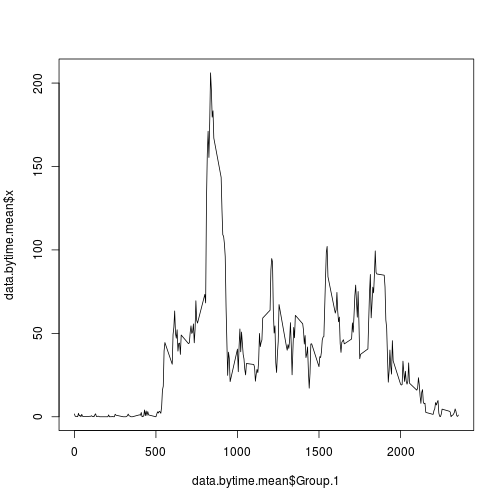
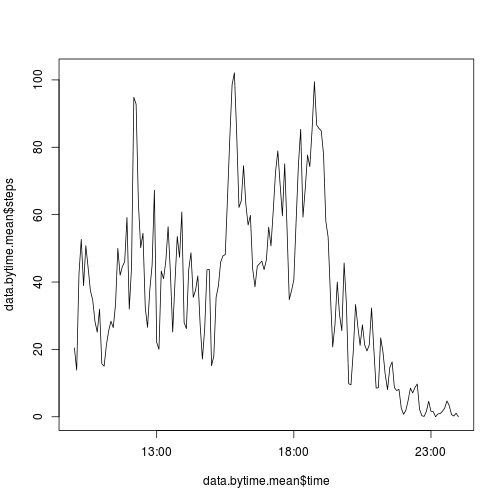
Start of inputing missing values

diff --git a/assessment1.html b/assessment1.html
@@ -203,16 +203,30 @@ hr {
 <body>
 <h2>Loading and preprocessing the data</h2>
 
-<p>Unzip and read activity data.</p>
+<p>Unzip and read activity data in one step.</p>
 
 <pre><code class="r">data &lt;- read.csv(unz(&quot;activity.zip&quot;, &quot;activity.csv&quot;))
 </code></pre>
 
-<p>Convert date column to a date and add a weekday value.</p>
+<p>Convert date and interval to a date.</p>
 
-<pre><code class="r">data$date &lt;- as.POSIXct(strptime(data$date, &#39;%Y-%m-%d&#39;))
-data$weekday &lt;- factor(weekdays(data$date, abbreviate = TRUE), levels  =
- c(&#39;Mon&#39;, &#39;Tue&#39;, &#39;Wed&#39;, &#39;Thu&#39;, &#39;Fri&#39;, &#39;Sat&#39;, &#39;Sun&#39;))
+<pre><code class="r">data$date &lt;- as.POSIXct(strptime(paste(data$date, data$interval), &#39;%Y-%m-%d %H%M&#39;))
+</code></pre>
+
+<p>Convert just the interval to a time.</p>
+
+<pre><code class="r">data$time &lt;- as.POSIXct(strptime(data$interval, &#39;%H%M&#39;))
+</code></pre>
+
+<p>Add weekday column with levels.</p>
+
+<pre><code class="r">data$weekday &lt;- factor(weekdays(data$date, abbreviate = TRUE),
+    levels = c(&#39;Mon&#39;, &#39;Tue&#39;, &#39;Wed&#39;, &#39;Thu&#39;, &#39;Fri&#39;, &#39;Sat&#39;, &#39;Sun&#39;))
+</code></pre>
+
+<p>Add a weekend column.</p>
+
+<pre><code class="r">data$weekend &lt;- factor(ifelse(data$weekday %in% c(&#39;Sat&#39;, &#39;Sun&#39;), &#39;weekend&#39;, &#39;weekday&#39;))
 </code></pre>
 
 <p>Aggregated the steps over days:</p>
@@ -227,10 +241,9 @@ names(data.byweekday) &lt;- c(&#39;weekday&#39;, &#39;steps&#39;)
 levels(data.byweekday$weekday) &lt;- c(&#39;Mon&#39;, &#39;Tue&#39;, &#39;Wed&#39;, &#39;Thu&#39;, &#39;Fri&#39;, &#39;Sat&#39;, &#39;Sun&#39;)
 </code></pre>
 
-<p>Aggregated the steps by weekday:</p>
+<p>Aggregated the steps by weekday/weekend:</p>
 
-<pre><code class="r">data$weekend &lt;- factor(ifelse(data$weekday %in% c(&#39;Sat&#39;, &#39;Sun&#39;), &#39;weekend&#39;, &#39;weekday&#39;))
-data.byweekend.mean &lt;- aggregate(x = data$steps,
+<pre><code class="r">data.byweekend.mean &lt;- aggregate(x = data$steps,
                                  by = list(data$weekend),
                                  FUN = mean,
                                  na.rm = TRUE)
@@ -241,42 +254,62 @@ data.byweekend.sum &lt;- aggregate(x = data$steps,
 names(data.byweekend) &lt;- c(&#39;weekend&#39;, &#39;steps&#39;)
 </code></pre>
 
+<p>Aggregate the steps by time.</p>
+
 <pre><code class="r">data.bytime.mean &lt;- aggregate(x = data$steps,
-                              by = list(data$interval),
+                              by = list(data$time),
                               FUN = mean,
                               na.rm = TRUE)
-
+names(data.bytime.mean) &lt;- c(&#39;time&#39;, &#39;steps&#39;)
 data.bytime.sum &lt;- aggregate(x = data$steps,
-                             by = list(data$interval),
+                             by = list(data$time),
                              FUN = sum,
                              na.rm = TRUE)
-names(data.byweekend) &lt;- c(&#39;weekend&#39;, &#39;steps&#39;)
 </code></pre>
 
 <h2>What is mean total number of steps taken per day?</h2>
 
-<p>Mean and median values.</p>
+<p>Mean,</p>
 
-<pre><code class="r">mean(data.byday$x)
+<pre><code class="r">mean(data.byday$x, na.rm = TRUE)
 </code></pre>
 
-<pre><code>## [1] 9354
+<pre><code>## [1] 34.05
 </code></pre>
 
-<pre><code class="r">median(data.byday$x)
+<p>Median</p>
+
+<pre><code class="r">median(data.byday$x[data.byday$x &gt; 0], na.rm = TRUE)
 </code></pre>
 
-<pre><code>## [1] 10395
+<pre><code>## [1] 57
 </code></pre>
 
 <h2>What is the average daily activity pattern?</h2>
 
-<pre><code class="r">plot(data.bytime.mean$Group.1, data.bytime.mean$x, type=&#39;l&#39;)
+<pre><code class="r">plot(data.bytime.mean$time, data.bytime.mean$steps, type=&#39;l&#39;)
 </code></pre>
 
[2 lines of base64/hex data omitted]
+
+<p>Time when we have the most steps.</p>
+
+<pre><code class="r">t &lt;- data.bytime.mean$time[which.max(data.bytime.mean$steps)]
+format(t, &quot;%H:%M&quot;)
+</code></pre>
+
+<pre><code>## [1] &quot;15:50&quot;
+</code></pre>
 
 <h2>Imputing missing values</h2>
+
+<p>1) Total number of missing values:</p>
+
+<pre><code class="r">sum(is.na(data$steps))
+</code></pre>
+
+<pre><code>## [1] 2304
+</code></pre>
 
 <h2>Are there differences in activity patterns between weekdays and weekends?</h2>
 

diff --git a/assessment1.md b/assessment1.md
@@ -1,5 +1,6 @@
 ---
 title: "Reproducible Research: Peer Assessment 1"
+author: Scott Kirkwood
 output: 
   html_document:
     keep_md: true
@@ -8,19 +9,36 @@ output:
 
 ## Loading and preprocessing the data
 
-Unzip and read activity data.
+Unzip and read activity data in one step.
 
 
 ```r
 data <- read.csv(unz("activity.zip", "activity.csv"))
 ```
 
-Convert date column to a date and add a weekday value.
+Convert date and interval to a date.
 
 ```r
-data$date <- as.POSIXct(strptime(data$date, '%Y-%m-%d'))
-data$weekday <- factor(weekdays(data$date, abbreviate = TRUE), levels  =
- c('Mon', 'Tue', 'Wed', 'Thu', 'Fri', 'Sat', 'Sun'))
+data$date <- as.POSIXct(strptime(paste(data$date, data$interval), '%Y-%m-%d %H%M'))
+```
+
+Convert just the interval to a time.
+
+```r
+data$time <- as.POSIXct(strptime(data$interval, '%H%M'))
+```
+
+Add weekday column with levels.
+
+```r
+data$weekday <- factor(weekdays(data$date, abbreviate = TRUE),
+    levels = c('Mon', 'Tue', 'Wed', 'Thu', 'Fri', 'Sat', 'Sun'))
+```
+
+Add a weekend column.
+
+```r
+data$weekend <- factor(ifelse(data$weekday %in% c('Sat', 'Sun'), 'weekend', 'weekday'))
 ```
 
 Aggregated the steps over days:
@@ -37,11 +55,10 @@ names(data.byweekday) <- c('weekday', 'steps')
 levels(data.byweekday$weekday) <- c('Mon', 'Tue', 'Wed', 'Thu', 'Fri', 'Sat', 'Sun')
 ```
 
-Aggregated the steps by weekday:
+Aggregated the steps by weekday/weekend:
 
 
 ```r
-data$weekend <- factor(ifelse(data$weekday %in% c('Sat', 'Sun'), 'weekend', 'weekday'))
 data.byweekend.mean <- aggregate(x = data$steps,
                                  by = list(data$weekend),
                                  FUN = mean,
@@ -53,52 +70,77 @@ data.byweekend.sum <- aggregate(x = data$steps,
 names(data.byweekend) <- c('weekend', 'steps')
 ```
 
+Aggregate the steps by time.
+
 
 ```r
 data.bytime.mean <- aggregate(x = data$steps,
-                              by = list(data$interval),
+                              by = list(data$time),
                               FUN = mean,
                               na.rm = TRUE)
-
+names(data.bytime.mean) <- c('time', 'steps')
 data.bytime.sum <- aggregate(x = data$steps,
-                             by = list(data$interval),
+                             by = list(data$time),
                              FUN = sum,
                              na.rm = TRUE)
-names(data.byweekend) <- c('weekend', 'steps')
 ```
 
 ## What is mean total number of steps taken per day?
 
-Mean and median values.
+Mean,
 
 
 ```r
-mean(data.byday$x)
+mean(data.byday$x, na.rm = TRUE)
 ```
 
 ```
-## [1] 9354
+## [1] 34.05
 ```
+
+Median
 
 ```r
-median(data.byday$x)
+median(data.byday$x[data.byday$x > 0], na.rm = TRUE)
 ```
 
 ```
-## [1] 10395
+## [1] 57
 ```
 
 ## What is the average daily activity pattern?
 
 
 ```r
-plot(data.bytime.mean$Group.1, data.bytime.mean$x, type='l')
+plot(data.bytime.mean$time, data.bytime.mean$steps, type='l')
 ```
 
 ![plot of chunk plot1](figure/plot1.png) 
 
+Time when we have the most steps.
+
+
+```r
+t <- data.bytime.mean$time[which.max(data.bytime.mean$steps)]
+format(t, "%H:%M")
+```
+
+```
+## [1] "15:50"
+```
+
 ## Imputing missing values
 
+1) Total number of missing values:
+
+
+```r
+sum(is.na(data$steps))
+```
+
+```
+## [1] 2304
+```
 
 
 ## Are there differences in activity patterns between weekdays and weekends?
